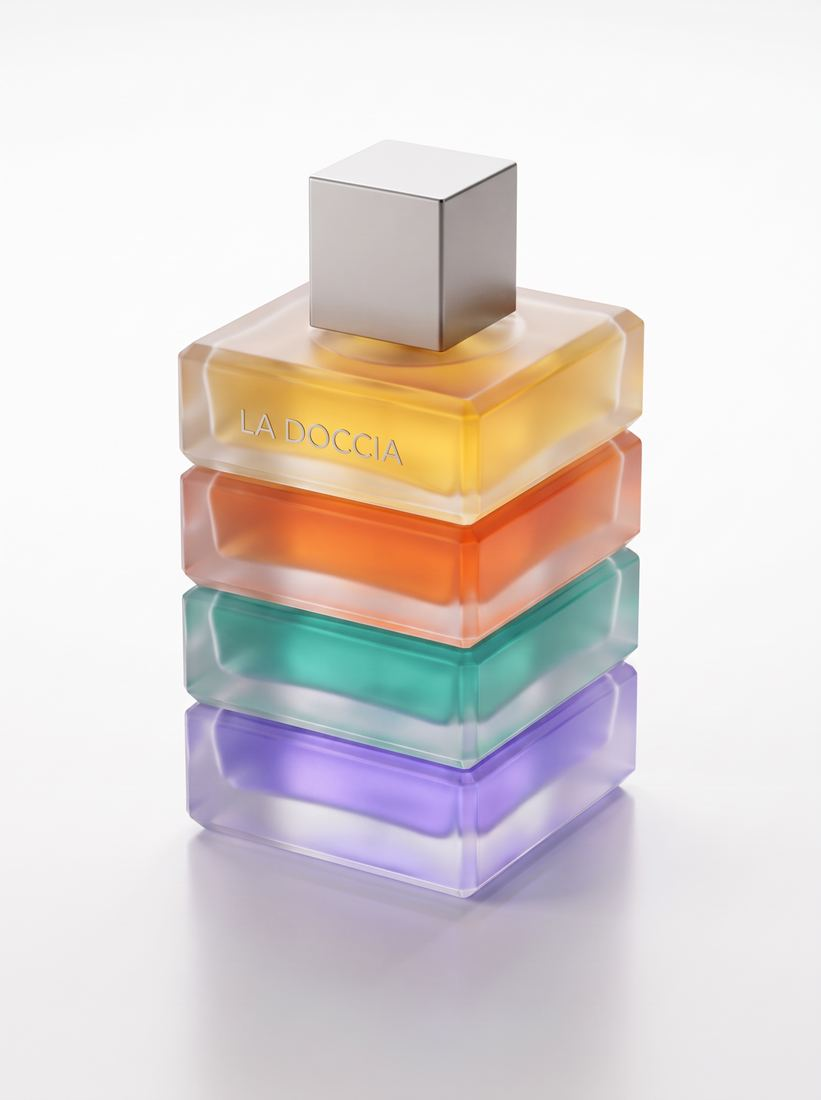
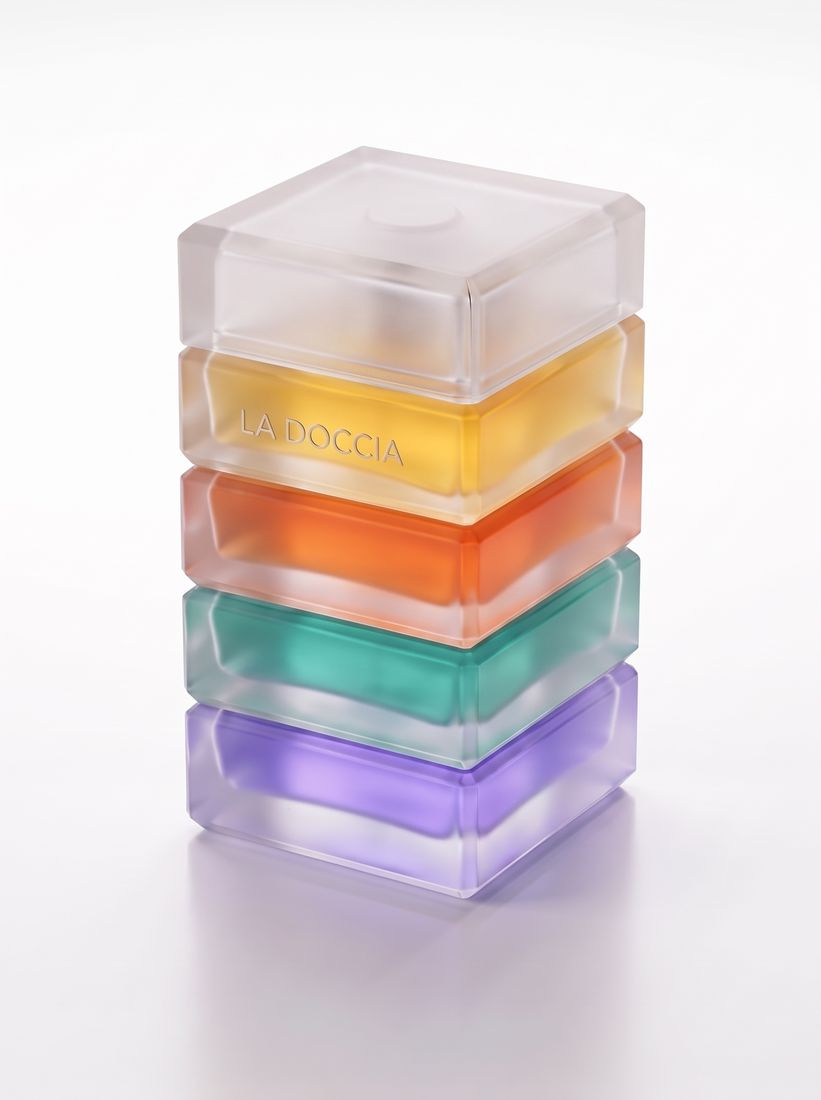
Sprueher integriert bei Duo/Quattro/Grattacielo; Taschenzerstaeuber, Quartetto, Colore geparkt
- Duo, Quattro und Grattacielo jetzt als geschlossene Bloecke (Oeffnung
  unsichtbar, nur Fuge) wie die uebrigen Flakons
- Drei neue Typo-Experimente (Riegel/Monochrom/Schachbrett mit vertikaler
  Wortmarke) unter assets/e/ zur Auswahl

diff --git a/index.html b/index.html
@@ -2019,9 +2019,8 @@ const CATS=[
   subs:[{id:'zub',n:'Alle Artikel'}]}
 ];
 const P=[
- {id:'p02',cat:'parfuem',sc:'edp',who:'herren',n:"Eau de Parfum „Vetiver Noir“, 50 ml",p:119,img:'assets/p/02_eau-de-parfum-herren_a.webp',img2:'assets/p/02_eau-de-parfum-herren_b.webp',gal:["assets/p/02_eau-de-parfum-herren_b.webp", "assets/p/02_eau-de-parfum-herren_c.webp", "assets/e/edp-herren-mann.jpg"],r:4.9,rv:7,who:"herren",rel:["p113", "p03", "p03"],d:"Der Herrenduft der Kollektion: dunkler Vetiver, Grapefruit und schwarzer Pfeffer über warmem Amber — klar, trocken, erwachsen.",x:"10–12 % Duftölanteil, hält 6–8 Stunden auf der Haut. 2 Sprühstöße auf Puls und Schlüsselbein genügen. Kühl und dunkel gelagert mindestens 24 Monate haltbar."},
- {id:'p03',cat:'parfuem',sc:'edp',n:"Taschenzerstäuber, 10 ml",p:24,img:'assets/p/03_taschenzerstaeuber_a.webp',img2:'assets/p/03_taschenzerstaeuber_c.webp',gal:["assets/p/03_taschenzerstaeuber_c.webp"],r:5.0,rv:14,rel:["p113", "p02", "p03"],d:"Nachfüllbarer Zerstäuber im Taschenformat — Ihr Duft im Handgepäck, büro- und flugtauglich.",x:"Lässt sich direkt aus dem Flakon befüllen und reicht für rund 120 Sprühstöße. Flugtauglich unter 100 ml."},
- {id:'p05',cat:'parfuem',sc:'mist',n:"Körperspray „Agrumi“, 100 ml",p:29,img:'assets/p/05_koerperspray_a.webp',img2:'assets/e/spray-detail.jpg',gal:["assets/e/spray-detail.jpg"],r:4.7,rv:28,ml:100,rel:["p113", "p02", "p03"],d:"Leichter Duftnebel für Haut und Haar — dezent, frisch und alltagstauglich.",x:"3 % Duftölanteil mit pflegendem Panthenol. Ganzjährig einsetzbar, auch ins trockene Haar sprühbar, ohne es zu beschweren."},
+ {id:'p02',cat:'parfuem',sc:'edp',who:'herren',n:"Eau de Parfum „Vetiver Noir“, 50 ml",p:119,img:'assets/p/02_eau-de-parfum-herren_a.webp',img2:'assets/p/02_eau-de-parfum-herren_b.webp',gal:["assets/p/02_eau-de-parfum-herren_b.webp", "assets/p/02_eau-de-parfum-herren_c.webp", "assets/e/edp-herren-mann.jpg"],r:4.9,rv:7,who:"herren",rel:["p113", "p141", "p141"],d:"Der Herrenduft der Kollektion: dunkler Vetiver, Grapefruit und schwarzer Pfeffer über warmem Amber — klar, trocken, erwachsen.",x:"10–12 % Duftölanteil, hält 6–8 Stunden auf der Haut. 2 Sprühstöße auf Puls und Schlüsselbein genügen. Kühl und dunkel gelagert mindestens 24 Monate haltbar."},
+ {id:'p05',cat:'parfuem',sc:'mist',n:"Körperspray „Agrumi“, 100 ml",p:29,img:'assets/p/05_koerperspray_a.webp',img2:'assets/e/spray-detail.jpg',gal:["assets/e/spray-detail.jpg"],r:4.7,rv:28,ml:100,rel:["p113", "p02", "p141"],d:"Leichter Duftnebel für Haut und Haar — dezent, frisch und alltagstauglich.",x:"3 % Duftölanteil mit pflegendem Panthenol. Ganzjährig einsetzbar, auch ins trockene Haar sprühbar, ohne es zu beschweren."},
  {id:'p06',cat:'parfuem',sc:'kerzen',n:"Duftkerze, 220 g",p:44,old:54,img:'assets/p/06_duftkerze-220g_a.webp',img2:'assets/p/06_duftkerze-220g_b.webp',gal:["assets/p/06_duftkerze-220g_b.webp", "assets/p/06_duftkerze-220g_c.webp"],r:4.8,rv:35,g:220,rel:["p07", "p06", "p113"],d:"Sojawachs mit Baumwolldocht im matten Glas — der ruhige Duft der La-Doccia-Interieurs für zu Hause.",x:"100 % Sojawachs mit 8 % Duftölanteil. Den Docht vor jedem Anzünden auf 5 mm kürzen und beim ersten Brennen die Oberfläche vollständig flüssig werden lassen."},
  {id:'p07',cat:'parfuem',sc:'kerzen',n:"Duftkerze klein, 90 g",p:24,img:'assets/p/07_duftkerze-90g_a.webp',img2:'assets/p/07_duftkerze-90g_b.webp',gal:["assets/p/07_duftkerze-90g_b.webp", "assets/p/07_duftkerze-90g_c.webp"],r:4.9,rv:6,g:90,rel:["p06", "p06", "p113"],d:"Sojawachs mit Baumwolldocht im matten Glas — der ruhige Duft der La-Doccia-Interieurs für zu Hause.",x:"100 % Sojawachs mit 8 % Duftölanteil. Den Docht vor jedem Anzünden auf 5 mm kürzen und beim ersten Brennen die Oberfläche vollständig flüssig werden lassen."},
  {id:'p09',cat:'kosmetik',sc:'dusche',n:"Duschgel, 250 ml",p:14,img:'assets/p/09_duschgel-250_a.webp',img2:'assets/p/09_duschgel-250_b.webp',gal:["assets/p/09_duschgel-250_b.webp", "assets/e/dept-kosmetik.jpg"],r:4.6,rv:20,badge:"Bestseller",ml:250,rel:["p10", "p11", "p12"],d:"Milde Reinigung mit dem Zitrus-Duft der Kollektion — sulfatfrei und pH-hautneutral.",x:"Sulfatfrei, pH 5,5, mit Aloe vera und pflanzlichem Glyzerin — mild genug für zweimal tägliches Duschen, auch bei empfindlicher Haut."},
@@ -2102,7 +2101,7 @@ const P=[
  {id:'p106',cat:'mode',sc:'sport',who:'damen',n:'Trainings-Top „Flow“',p:29,img:'assets/p/106_a.jpg',img2:'assets/p/106_b.jpg',gal:['assets/p/106_b.jpg'],r:4.7,rv:9,badge:'Neu',mat:'100 % recyceltes Polyester',sizes:["XS","S","M","L"],rel:["p106","p105","p105"],d:'Lässiges weißes Trainingsshirt mit überschnittenen Schultern — luftig über Bra und Leggings.',x:'Federleicht und atmungsaktiv, bleibt geruchsneutral. Bei 30 °C waschen.'},
  {id:'p108',cat:'mode',sc:'sport',who:'damen',n:'Sporttasche „Palestra“',p:49,img:'assets/p/108_neu_a.jpg',colors:[4,5,2],cimg:{Weiß:'assets/p/108_neu_a.jpg',Schwarz:'assets/p/108_schwarz.jpg','Türkis':'assets/p/108_tuerkis.jpg'},r:4.9,rv:6,badge:'Neu',mat:'100 % recyceltes Polyester',rel:["p109","p105","p105"],d:'Die Trainingstasche nach eigener Skizze: gewölbter Deckel, vier Quadrat-Fenster in den Markenfarben auf der Front.',x:'Wasserabweisendes Gewebe, Schuhfach, abwischbarer Boden. Bei 30 °C von Hand waschen.'},
  {id:'p109',cat:'mode',sc:'sport',who:'damen',n:'Trinkflasche „Idra“, 750 ml',p:24,img:'assets/p/109_a.jpg',img2:'assets/p/109_b.jpg',gal:['assets/p/109_b.jpg'],r:4.8,rv:11,badge:'Neu',rel:["p108","p105","p109"],d:'Doppelwandige Edelstahlflasche in mattem Türkis mit den vier Quadraten — hält 24 h kalt.',x:'Auslaufsicher, passt in gängige Flaschenhalter. Von Hand spülen, nicht für kohlensäurehaltige Getränke.'},
- {id:'p128',cat:'parfuem',sc:'edp',n:'Eau de Parfum „Blocco“, 50 ml',p:159,img:'assets/p/128_a.jpg',r:5.0,rv:2,badge:'Neu',rel:["p139","p140","p142"],d:'Vier Würfel aus sattem Farbglas — Gelb, Orange, Türkis, Violett — übereinander, gekrönt vom runden Golddeckel. Unser Signature-Turm.',x:'14 % Duftölanteil: Ambra, Zeder und ein Hauch Salz. Design geschützt, Erstveröffentlichung dokumentiert.'},
+ {id:'p128',cat:'parfuem',sc:'edp',n:'Eau de Parfum „Blocco“, 50 ml',p:159,img:'assets/p/128_a.jpg',r:5.0,rv:2,badge:'Neu',rel:["p128","p140","p142"],d:'Vier Würfel aus sattem Farbglas — Gelb, Orange, Türkis, Violett — übereinander, gekrönt vom runden Golddeckel. Unser Signature-Turm.',x:'14 % Duftölanteil: Ambra, Zeder und ein Hauch Salz. Design geschützt, Erstveröffentlichung dokumentiert.'},
  {id:'p130',cat:'mode',sc:'kleidung',who:'herren',n:'Poloshirt „Marina Oro“',p:129,img:'assets/p/130_a.jpg',r:5.0,rv:2,badge:'Neu',mat:'100 % Piqué-Baumwolle (schwere Qualität)',sizes:["S","M","L","XL"],rel:["p120","p131","p122"],d:'Die Premium-Schiene: weißes Piqué-Polo mit goldenen Quadrat-Knöpfen, goldenem Logostick und der sichtbaren goldenen Ziernaht — unsere Handschrift, die alle anderen verstecken.',x:'Fette Kontrastnähte an Schulter, Kragen und Knopfleiste. Bei 30 °C waschen, in Form ziehen.'},
  {id:'p131',cat:'mode',sc:'kleidung',who:'herren',n:'Hemd „Camicia“',p:119,img:'assets/p/131_a.jpg',r:4.9,rv:2,badge:'Neu',mat:'100 % Baumwolle (Oxford)',sizes:["S","M","L","XL"],rel:["p130","p120","p122"],d:'Weißes Hemd, komplett zum Öffnen: goldene Quadrat-Knöpfe über die ganze Leiste, türkise Ziernähte an Schultern und Manschetten, Brusttasche mit Logostick.',x:'Sichtbare Nähte als Markenzeichen — wirkt unzerreißbar. Bei 40 °C waschen, bügelleicht.'},
  {id:'p132',cat:'mode',sc:'schuhe',who:'damen',n:'Sneaker „Scintilla“',p:169,img:'assets/p/132_a.jpg',colors:[4,5],cimg:{Weiß:'assets/p/132_a.jpg',Schwarz:'assets/p/132_schwarz.jpg'},r:5.0,rv:3,badge:'Neu',mat:'Leder, Gummisohle',sizes:["36","37","38","39","40","41"],rel:["p64","p116","p117"],d:'Die Premium-Schiene: weißer Ledersneaker mit goldenen Ziernähten an jeder Kante und dem funkelnden Kristall-Quadrat an der Ferse — strahlt, sobald die Sonne drauffällt.',x:'Kristallbesatz aus geschliffenem Acryl, geprägtes LA DOCCIA an der Ferse. Mit Ledertuch pflegen.'},
@@ -2112,22 +2111,20 @@ const P=[
  {id:'p136',cat:'mode',sc:'taschen',who:'damen',n:'Handtasche „Quadra Mini“',p:129,img:'assets/p/136_a.jpg',r:5.0,rv:2,badge:'Neu',mat:'Genarbtes Leder, goldene Kette',rel:["p117","p137","p132"],d:'Die kleine Quadra für den Abend: kompakt, streng quadratisch, mit goldener Kette und dem funkelnden Kristall-Quadrat.',x:'Kette abnehmbar, Platz für Telefon, Karte und Lippenbalsam. Goldene Hardware.'},
  {id:'p137',cat:'mode',sc:'taschen',who:'damen',n:'Baguette „Lunga“',p:149,img:'assets/p/137_a.jpg',r:4.9,rv:2,badge:'Neu',mat:'Genarbtes Leder',rel:["p117","p136","p116"],d:'Die längliche Form der Familie: schmale Baguette-Tasche mit exakt geraden Kanten, goldener Ziernaht und den vier goldgefassten Quadraten auf der Front.',x:'Unter den Arm oder in die Hand — Magnetverschluss, goldene Füße am Boden.'},
  {id:'p138',cat:'mode',sc:'kleidung',who:'herren',n:'Sommerhemd „Quadri“',p:109,img:'assets/p/138_a.jpg',r:4.9,rv:2,badge:'Neu',mat:'100 % Baumwolle',sizes:["S","M","L","XL"],rel:["p131","p130","p122"],d:'Das Sommerhemd mit dem gestreuten Quadrate-Print — wie Farbtropfen im Regen, elegant statt laut. Goldene Quadrat-Knöpfe, türkise Ziernaht am Kragen.',x:'Reverskragen, gerader Saum — lässt sich offen oder geschlossen tragen. Bei 30 °C waschen.'},
- {id:'p139',cat:'parfuem',sc:'edp',n:'Eau de Parfum „Quartetto“, 50 ml',p:149,img:'assets/p/139_a.jpg',r:5.0,rv:2,badge:'Neu',rel:["p128","p140","p141"],d:'Der geviertelte Würfel: vier Kammern aus Grün, Magenta und Orange in einem Glaskubus, flacher Kristalldeckel, Wortmarke auf der Front.',x:'13 % Duftölanteil. Jede Seite zeigt eine andere Farbe — ein Objekt zum Drehen.'},
- {id:'p140',cat:'parfuem',sc:'edp',n:'Eau de Parfum „Duo“, 30 ml',p:99,img:'assets/p/140_a.jpg',r:4.9,rv:2,badge:'Neu',rel:["p128","p141","p139"],d:'Zwei Würfel, zwei Farben: Türkis unten, Violett oben, mit goldenem Zerstäuber — der kleine Bruder des Turms.',x:'12 % Duftölanteil. Handlich fürs Regal und die Reise.'},
- {id:'p141',cat:'parfuem',sc:'edp',n:'Eau de Parfum „Piccolo“, 15 ml',p:59,img:'assets/p/141_a.jpg',r:4.9,rv:3,badge:'Neu',rel:["p140","p128","p03"],d:'Ein einzelner Würfel in Gelb mit Golddeckel — das Reiseformat der Turm-Familie, klein wie ein Schmuckstück.',x:'Flugtauglich unter 100 ml. Auch schön als Geschenk zum Kennenlernen.'},
- {id:'p142',cat:'parfuem',sc:'edp',n:'Eau de Parfum „Grattacielo“, 75 ml',p:189,img:'assets/p/142_a.jpg',r:5.0,rv:2,badge:'Neu',rel:["p128","p139","p140"],d:'Der Wolkenkratzer: sechs dünne Glasscheiben in den Markenfarben übereinander, Golddeckel oben — das große Format der Familie.',x:'15 % Duftölanteil — der langlebigste Duft der Kollektion.'},
+ {id:'p140',cat:'parfuem',sc:'edp',n:'Eau de Parfum „Duo“, 30 ml',p:99,img:'assets/p/140_a.jpg',r:4.9,rv:2,badge:'Neu',rel:["p128","p141","p128"],d:'Zwei Würfel, zwei Farben: Türkis unten, Violett oben, ein geschlossener Block — der kleine Bruder des Turms. Die Öffnung sitzt unsichtbar im oberen Würfel.',x:'12 % Duftölanteil. Handlich fürs Regal und die Reise.'},
+ {id:'p141',cat:'parfuem',sc:'edp',n:'Eau de Parfum „Piccolo“, 15 ml',p:59,img:'assets/p/141_a.jpg',r:4.9,rv:3,badge:'Neu',rel:["p140","p128","p141"],d:'Ein einzelner Würfel in Gelb mit Golddeckel — das Reiseformat der Turm-Familie, klein wie ein Schmuckstück.',x:'Flugtauglich unter 100 ml. Auch schön als Geschenk zum Kennenlernen.'},
+ {id:'p142',cat:'parfuem',sc:'edp',n:'Eau de Parfum „Grattacielo“, 75 ml',p:189,img:'assets/p/142_a.jpg',r:5.0,rv:2,badge:'Neu',rel:["p128","p128","p140"],d:'Der Wolkenkratzer: sechs dünne Glasscheiben in den Markenfarben übereinander, oben bündig geschlossen — das große Format der Familie.',x:'15 % Duftölanteil — der langlebigste Duft der Kollektion.'},
  {id:'p143',cat:'mode',sc:'jacken',who:'herren',n:'Daunenjacke „Piuma“',p:249,img:'assets/p/143_schwarz.jpg',colors:[5,2,4],cimg:{Schwarz:'assets/p/143_schwarz.jpg','Türkis':'assets/p/143_tuerkis.jpg',Weiß:'assets/p/143_weiss.jpg'},r:5.0,rv:2,badge:'Neu',mat:'Recyceltes Polyamid, Daune (RDS)',sizes:["S","M","L","XL"],rel:["p126","p146","p130"],d:'Unsere Daunenjacke mit dem Quadrat-Stepp: statt Querstreifen wölbt sich jede Kammer als Quadrat. Goldener Reißverschluss, Brustbadge mit den vier Quadraten.',x:'Warm, leicht, wasserabweisend. Bei 30 °C im Schonwaschgang, mit Tennisbällen trocknen.'},
  {id:'p144',cat:'mode',sc:'jacken',who:'damen',n:'Daunenjacke „Piuma Donna“',p:229,img:'assets/p/144_violett.jpg',colors:[3,4,1],cimg:{Violett:'assets/p/144_violett.jpg',Weiß:'assets/p/144_weiss.jpg',Orange:'assets/p/144_orange.jpg'},r:5.0,rv:3,badge:'Neu',mat:'Recyceltes Polyamid, Daune (RDS)',sizes:["XS","S","M","L"],rel:["p143","p117","p116"],d:'Die cropped Version mit Quadrat-Steppung und Goldzipper — Volumen oben, Taille frei.',x:'Warm, federleicht, wasserabweisend. Bei 30 °C im Schonwaschgang.'},
  {id:'p145',cat:'mode',sc:'kleidung',who:'damen',n:'Strickpullover „Quadretti“',p:149,img:'assets/p/145_creme.jpg',colors:[4,5],cimg:{Weiß:'assets/p/145_creme.jpg',Schwarz:'assets/p/145_anthrazit.jpg'},r:4.9,rv:2,badge:'Neu',mat:'70 % Wolle, 30 % Baumwolle',sizes:["XS","S","M","L"],rel:["p134","p144","p116"],d:'Cremefarbener Strick mit eingestrickten Hohlquadraten in den vier Markenfarben — verspielt, aber teuer gedacht. Goldfaden an Kragen und Bündchen.',x:'Intarsien-Strick, kein Aufdruck. Handwäsche oder Wollprogramm.'},
  {id:'p146',cat:'mode',sc:'kleidung',who:'herren',n:'Track-Jacke „Pista“',p:179,img:'assets/p/146_weiss.jpg',colors:[4,5],cimg:{Weiß:'assets/p/146_weiss.jpg',Schwarz:'assets/p/146_schwarz.jpg'},r:4.9,rv:2,badge:'Neu',mat:'Technischer Jersey',sizes:["S","M","L","XL"],rel:["p143","p133","p122"],d:'Retro-Sportjacke mit dem Quadrate-Band an beiden Ärmeln und goldener Stickerei — Sport als Mode.',x:'Rippkragen mit Türkis-Orange-Tipping. Bei 30 °C waschen.'},
  {id:'p147',cat:'mode',sc:'jacken',who:'kinder',n:'Kinder-Daunenjacke „Piumino“',p:119,img:'assets/p/147_gelb.jpg',colors:[0,2],cimg:{Gelb:'assets/p/147_gelb.jpg','Türkis':'assets/p/147_tuerkis.jpg'},r:5.0,rv:2,badge:'Neu',mat:'Recyceltes Polyamid, Wattierung',sizes:["98/104","110/116","122/128"],rel:["p82","p83","p87"],d:'Die Mini-Piuma: Quadrat-Steppung, kuschelige Kapuze mit farbigem Futter und das Badge mit den vier Quadraten.',x:'Wattiert statt Daune — pflegeleicht und tierfreundlich. Bei 30 °C waschbar.'},
- {id:'p148',cat:'parfuem',sc:'edp',n:'Eau de Parfum „Torre“, 100 ml',p:199,img:'assets/p/148_a.jpg',r:5.0,rv:2,badge:'Neu',rel:["p128","p142","p139"],d:'Der große Turm: fünf Farbwürfel übereinander, und die Wortmarke läuft senkrecht über die Kanten — die Quadrate sitzen mitten in den Buchstaben. Das Sammlerstück der Kollektion.',x:'15 % Duftölanteil, 100 ml. Der oberste Würfel ist der Deckel. Design geschützt.'},
+ {id:'p148',cat:'parfuem',sc:'edp',n:'Eau de Parfum „Torre“, 100 ml',p:199,img:'assets/p/148_a.jpg',r:5.0,rv:2,badge:'Neu',rel:["p128","p142","p128"],d:'Der große Turm: fünf Farbwürfel übereinander, und die Wortmarke läuft senkrecht über die Kanten — die Quadrate sitzen mitten in den Buchstaben. Das Sammlerstück der Kollektion.',x:'15 % Duftölanteil, 100 ml. Der oberste Würfel ist der Deckel. Design geschützt.'},
  {id:'p110',cat:'textil',sc:'maentel',who:'kinder',n:'Kinder-Bademantel „Nuvola“',p:44,img:'assets/p/110_a.jpg',img2:'assets/p/110_b.jpg',gal:['assets/p/110_b.jpg'],r:4.9,rv:12,badge:'Neu',mat:'100 % Baumwolle (Frottee)',sizes:["98/104","110/116","122/128"],rel:["p111","p82","p87"],d:'Türkiser Frottee-Bademantel mit Kapuze und Quadrate-Futter in Gelb — kuschelig nach Bad und Schwimmkurs.',x:'Saugstarkes Frottee, aufgesetzte Taschen, Aufhänger im Kragen. Bei 60 °C waschbar.'},
  {id:'p111',cat:'textil',sc:'tuecher',who:'kinder',n:'Kinder-Poncho „Onda“',p:29,img:'assets/p/111_a.jpg',img2:'assets/p/111_b.jpg',gal:['assets/p/111_b.jpg'],r:4.8,rv:9,badge:'Neu',mat:'100 % Baumwolle',rel:["p110","p84","p86"],d:'Sonnengelber Kapuzen-Poncho aus Frottee mit orangem Saum und Quadrate-Bordüre — überwerfen, fertig.',x:'Für Schwimmbad und Strand, trocknet schnell, eine Größe für 2–6 Jahre. Bei 60 °C waschbar.'},
  {id:'p112',cat:'mode',sc:'acc',who:'kinder',n:'Kinder-Regenschirm „Goccia“',p:22,img:'assets/p/112_a.jpg',img2:'assets/p/112_b.jpg',gal:['assets/p/112_b.jpg'],r:4.9,rv:8,badge:'Neu',rel:["p82","p83","p85"],d:'Oranger Kinderschirm mit Quadrate-Kante und türkisem Griff — Regen wird zum Lieblingswetter.',x:'Leichtgängig zu öffnen, abgerundete Spitzen, Ø 72 cm. Griff für kleine Hände.'},
- {id:'p113',cat:'parfuem',sc:'edp',n:'Eau de Parfum „Quattro“, 50 ml',p:159,img:'assets/p/113_a.jpg',r:5.0,rv:4,badge:'Neu',rel:["p114","p115","p113"],d:'Unser Signature-Flakon: vier massive Glasblöcke in den Markenfarben, elegant versetzt gestapelt — Architektur zum Aufsprühen. Gefrostetes Glas, Würfelkappe aus Metall.',x:'13 % Duftölanteil, hält 7–9 Stunden. Limitierte Erstauflage — jede Flasche nummeriert. Design angemeldet zum Schutz ab Erstveröffentlichung.'},
- {id:'p114',cat:'parfuem',sc:'edp',n:'Eau de Parfum „Cubo“, 50 ml',p:139,img:'assets/p/114_a.jpg',r:4.9,rv:3,badge:'Neu',rel:["p113","p115","p113"],d:'Der Turm aus vier Würfeln: jeder leicht gegen den nächsten gedreht, innen fließt der Duft von Gelb nach Violett. Ein Guss, klare Kanten, Würfelkappe.',x:'12 % Duftölanteil, hält 6–8 Stunden. Steht wie ein Designobjekt im Regal — genau so gedacht.'},
- {id:'p115',cat:'parfuem',sc:'edp',n:'Eau de Parfum „Colore“, 50 ml',p:119,img:'assets/p/115_gelb.jpg',r:4.8,rv:5,badge:'Neu',colors:[0,1,2,3],cimg:{Gelb:'assets/p/115_gelb.jpg',Orange:'assets/p/115_orange.jpg','Türkis':'assets/p/115_tuerkis.jpg',Violett:'assets/p/115_violett.jpg'},rel:["p113","p114","p03"],d:'Die Signature-Flasche in einer Farbe komplett — wählen Sie Ihre: Gelb, Orange, Türkis oder Violett. Jede Farbe trägt ihren eigenen Duftcharakter.',x:'Gelb: Zitrus & Neroli. Orange: Ambra & Vanille. Türkis: Meersalz & Feige. Violett: Iris & Sandelholz. Je 11 % Duftölanteil.'},
+ {id:'p113',cat:'parfuem',sc:'edp',n:'Eau de Parfum „Quattro“, 50 ml',p:159,img:'assets/p/113_a.jpg',r:5.0,rv:4,badge:'Neu',rel:["p128","p148","p140"],d:'Vier gefrostete Farbsegmente in einer Flasche — Gelb, Orange, Türkis, Violett. Kein sichtbarer Deckel: die Öffnung sitzt unsichtbar im obersten Segment.',x:'13 % Duftölanteil, hält 7–9 Stunden. Design geschützt, Erstveröffentlichung dokumentiert.'},
+ {id:'p114',cat:'parfuem',sc:'edp',n:'Eau de Parfum „Cubo“, 50 ml',p:139,img:'assets/p/114_a.jpg',r:4.9,rv:3,badge:'Neu',rel:["p113","p128","p113"],d:'Der Turm aus vier Würfeln: jeder leicht gegen den nächsten gedreht, innen fließt der Duft von Gelb nach Violett. Ein Guss, klare Kanten, Würfelkappe.',x:'12 % Duftölanteil, hält 6–8 Stunden. Steht wie ein Designobjekt im Regal — genau so gedacht.'},
  {id:'p116',cat:'mode',sc:'schuhe',who:'damen',n:'Plateau-Sneaker „Nuvola“',p:139,img:'assets/p/116_a.jpg',colors:[4,2,0],cimg:{Weiß:'assets/p/116_a.jpg','Türkis':'assets/p/116_tuerkis.jpg',Gelb:'assets/p/116_gelb.jpg'},r:4.9,rv:2,badge:'Neu',mat:'Canvas, Gummisohle',sizes:["36","37","38","39","40","41"],rel:["p64","p65","p105"],d:'Der Statement-Sneaker: cremeweiße Bumper-Sohle mit weicher, runder Kappe — wolkig dick, federleicht getragen.',x:'Geprägtes LA DOCCIA an der Ferse, vier gestickte Quadrate am Schaft. Sohle abwischbar, Obermaterial imprägniert.'},
  {id:'p117',cat:'mode',sc:'taschen',who:'damen',n:'Handtasche „Quadra“',p:189,img:'assets/p/117_neu_a.jpg',colors:[6,5,7],cimg:{Gold:'assets/p/117_neu_a.jpg',Schwarz:'assets/p/117_naht-schwarz.jpg','Grün':'assets/p/117_naht-gruen.jpg'},r:4.9,rv:3,badge:'Neu',mat:'Genarbtes Leder, Baumwollfutter',rel:["p136","p137","p132"],d:'Streng quadratisch mit eckigen Griffen und dem goldgefassten Kristall-Quadrat. Die Ziernaht wählen Sie selbst: Gold, Schwarz oder Grün — unsere Handschrift, Ihre Entscheidung.',x:'Goldene Hardware, Magnetverschluss, Innenfach mit Reißverschluss.'},
  {id:'p118',cat:'mode',sc:'kleidung',who:'herren',n:'T-Shirt „Essenziale“',p:79,img:'assets/p/118_a.jpg',img2:'assets/p/118_b.jpg',gal:['assets/p/118_b.jpg','assets/p/118_video.mp4'],r:4.9,rv:4,badge:'Neu',mat:'100 % Bio-Baumwolle, 220 g/m²',sizes:["S","M","L","XL"],rel:["p130","p131","p122"],d:'Das schwere off-white T-Shirt mit den vier großen Hohlquadraten und der Serifen-Wortmarke auf der Brust — das Statement-Piece der Herrenlinie.',x:'Vorgewaschen, verstärkte Schulternähte, Rippkragen mit türkiser Linie. Bei 30 °C waschen.'},
@@ -2288,7 +2285,7 @@ function renderShop(){
           <button class="btn pill" onclick="filt('kinderwelt')">Für Kinder entdecken</button></div>
       </div>
       <div class="grouplbl" style="margin-top:26px">Für Kinder</div>${rail(['p82','p83','p85','p84','p86','p87'])}
-      <div class="grouplbl" style="margin-top:46px">Neue Pflege &amp; Düfte</div>${rail(['p148','p128','p139','p142','p143','p144','p145','p146','p147','p136'])}
+      <div class="grouplbl" style="margin-top:46px">Neue Pflege &amp; Düfte</div>${rail(['p148','p128','p142','p143','p144','p145','p146','p147','p136'])}
       <div class="grouplbl" style="margin-top:46px">Neu in Mode</div>${rail(['p62','p71','p64','p63','p68','p69'])}
       <div style="margin-top:38px;text-align:center"><button class="btn ghost" onclick="filt('neu')">Alle Neuheiten als Liste</button></div>`;
     document.getElementById('fcount').textContent='Neuheiten';

diff --git a/PARKPLATZ.md b/PARKPLATZ.md
@@ -23,6 +23,9 @@ ggf. anpassen). Reihenfolge = Zeitpunkt der Entfernung, Neueste zuletzt.
 | EdP „Blocco" | p127 | 127_a.jpg (+ Varianten assets/e/flakon-blocco-*.jpg) | Klarglas-Block, Farbverlauf innen |
 | Shampoo, 250 ml | p19 | 19_shampoo-250_*.webp | Basis-Shampoo („Volume"/„Repair" sind im Shop) |
 | Shampoo, 500 ml | p20 | 20_shampoo-500_*.webp | |
+| Taschenzerstäuber 10 ml | p03 | 03_taschenzerstaeuber_*.webp | |
+| EdP „Quartetto" (geviertelter Würfel) | p139 | 139_a.jpg | |
+| EdP „Colore" (einfarbige Flasche, 4 Farben) | p115 | 115_gelb/orange/tuerkis/violett.jpg | |
 | EdP „Dado" (Würfel) | p129 | 129_a.jpg | monochromer Glaswürfel violett |
 
 ## Sets (komplett geparkt)
